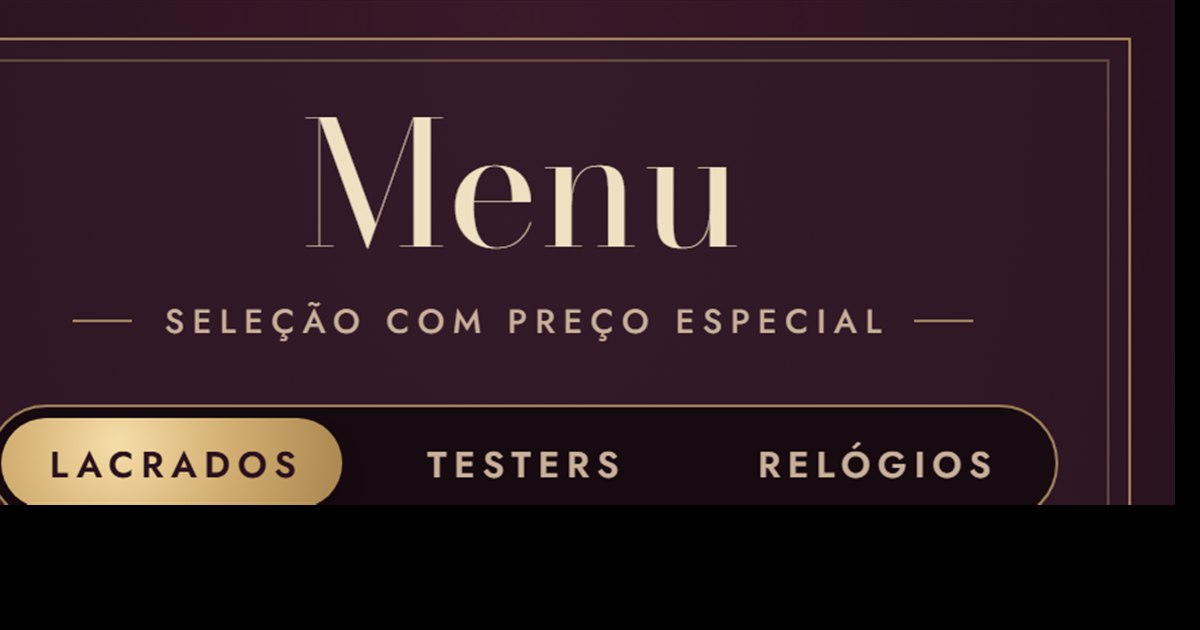
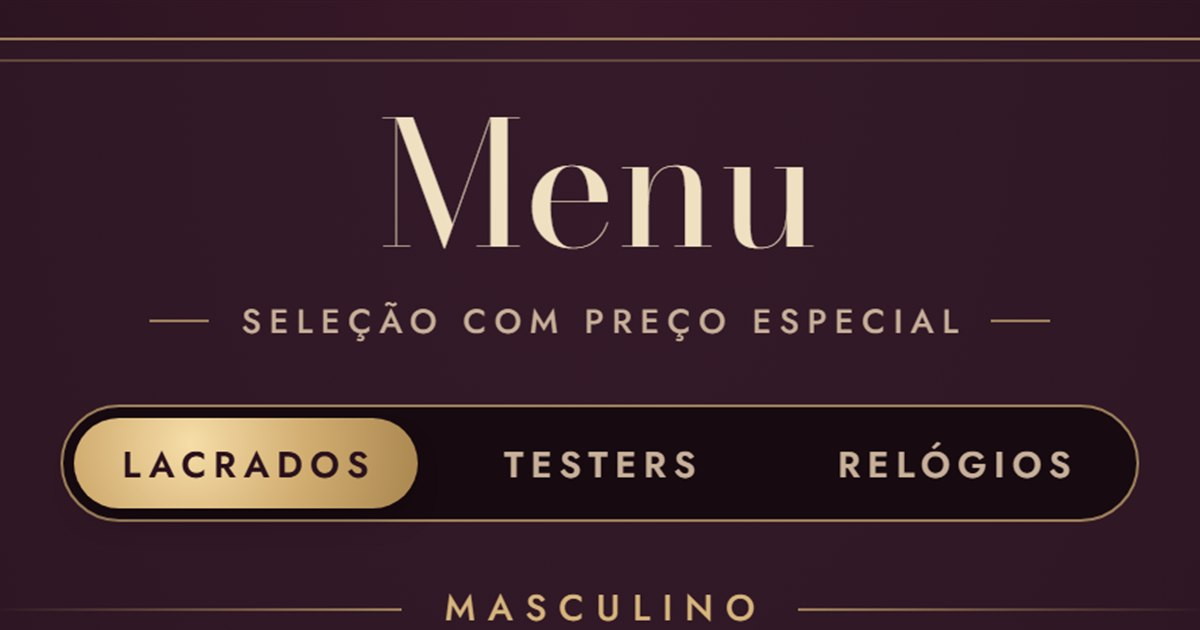
Relógios novos: 3 masculinos e 2 femininos
Masculino: Technos Racer Dourado e Preto 2115KPU/8P (440 -> 349), Technos Steel Dourado
e Azul 2115TVS/0A (440 -> 349) e Orient Analógico Dourado e Preto MGSS1267 P2KX (599 -> 450).
Feminino (seção nova na aba): Casio Vintage Dourado LA670WGA-1DF (399 -> 249) e Lince
Analógico Prata e Rosa LRM4813L36 (249 -> 180).

diff --git a/index.html b/index.html
@@ -1903,6 +1903,100 @@
             <p class="save"><span>Economize</span> R$&nbsp;109,00</p>
           </div>
         </article>
+
+        <article class="item">
+          <div class="frame-wrap">
+            <div class="frame">
+              <!-- packshot oficial (technos.com.br), o mesmo que o Fernando mandou -->
+              <img src="img/technos-2115kpu.png" alt="Technos Racer Dourado e Preto 2115KPU/8P" style="--w:100%; --l:0%; --b:0%">
+            </div>
+            <div class="seal"><b>20<em>%</em></b><span>OFF</span></div>
+          </div>
+          <div class="info">
+            <p class="brand">Technos <span class="vol"><span class="sep"></span>2115KPU/8P</span></p>
+            <h3 class="name">Racer Dourado e Preto</h3>
+            <p class="cond"><span>Novo</span></p>
+            <p class="de"><i>de</i> <s>R$&nbsp;440,00</s></p>
+            <p class="por"><i>por</i><span class="lead"></span><span class="price"><span class="cur">R$</span>349,00</span></p>
+            <p class="save"><span>Economize</span> R$&nbsp;91,00</p>
+          </div>
+        </article>
+
+        <article class="item">
+          <div class="frame-wrap">
+            <div class="frame">
+              <!-- packshot oficial (technos.com.br, 1000 px); a do Fernando era a mesma em 256 px -->
+              <img src="img/technos-2115tvs.png" alt="Technos Steel Dourado e Azul 2115TVS/0A" style="--w:100%; --l:0%; --b:0%">
+            </div>
+            <div class="seal"><b>20<em>%</em></b><span>OFF</span></div>
+          </div>
+          <div class="info">
+            <p class="brand">Technos <span class="vol"><span class="sep"></span>2115TVS/0A</span></p>
+            <h3 class="name">Steel Dourado e Azul</h3>
+            <p class="cond"><span>Novo</span></p>
+            <p class="de"><i>de</i> <s>R$&nbsp;440,00</s></p>
+            <p class="por"><i>por</i><span class="lead"></span><span class="price"><span class="cur">R$</span>349,00</span></p>
+            <p class="save"><span>Economize</span> R$&nbsp;91,00</p>
+          </div>
+        </article>
+
+        <article class="item">
+          <div class="frame-wrap">
+            <div class="frame">
+              <!-- render oficial da Orient (foto do Fernando, 1000 px) -->
+              <img src="img/orient-mgss1267.png" alt="Orient Analógico Dourado e Preto MGSS1267 P2KX" style="--w:100%; --l:0%; --b:0%">
+            </div>
+            <div class="seal"><b>24<em>%</em></b><span>OFF</span></div>
+          </div>
+          <div class="info">
+            <p class="brand">Orient <span class="vol"><span class="sep"></span>MGSS1267 P2KX</span></p>
+            <h3 class="name">Analógico Dourado e Preto</h3>
+            <p class="cond"><span>Novo</span></p>
+            <p class="de"><i>de</i> <s>R$&nbsp;599,00</s></p>
+            <p class="por"><i>por</i><span class="lead"></span><span class="price"><span class="cur">R$</span>450,00</span></p>
+            <p class="save"><span>Economize</span> R$&nbsp;149,00</p>
+          </div>
+        </article>
+      </section>
+
+      <section>
+        <h2 class="sec-t"><span>Feminino</span></h2>
+
+        <article class="item">
+          <div class="frame-wrap">
+            <div class="frame">
+              <!-- packshot oficial (casio.com, 2000 px); a do Fernando era cena de 350 px -->
+              <img src="img/casio-la670wga-1.png" alt="Casio Vintage Dourado LA670WGA-1DF" style="--w:100%; --l:0%; --b:0%">
+            </div>
+            <div class="seal"><b>37<em>%</em></b><span>OFF</span></div>
+          </div>
+          <div class="info">
+            <p class="brand">Casio <span class="vol"><span class="sep"></span>LA670WGA-1DF</span></p>
+            <h3 class="name">Vintage Dourado</h3>
+            <p class="cond"><span>Novo</span></p>
+            <p class="de"><i>de</i> <s>R$&nbsp;399,00</s></p>
+            <p class="por"><i>por</i><span class="lead"></span><span class="price"><span class="cur">R$</span>249,00</span></p>
+            <p class="save"><span>Economize</span> R$&nbsp;150,00</p>
+          </div>
+        </article>
+
+        <article class="item">
+          <div class="frame-wrap">
+            <div class="frame">
+              <!-- packshot oficial da Lince (LRM4813L36 R2SX, 1000 px) -->
+              <img src="img/lince-lrm4813l36.png" alt="Lince Analógico Prata e Rosa LRM4813L36" style="--w:100%; --l:0%; --b:0%">
+            </div>
+            <div class="seal"><b>27<em>%</em></b><span>OFF</span></div>
+          </div>
+          <div class="info">
+            <p class="brand">Lince <span class="vol"><span class="sep"></span>LRM4813L36</span></p>
+            <h3 class="name">Analógico Prata e Rosa</h3>
+            <p class="cond"><span>Novo</span></p>
+            <p class="de"><i>de</i> <s>R$&nbsp;249,00</s></p>
+            <p class="por"><i>por</i><span class="lead"></span><span class="price"><span class="cur">R$</span>180,00</span></p>
+            <p class="save"><span>Economize</span> R$&nbsp;69,00</p>
+          </div>
+        </article>
       </section>
 
       <section>
